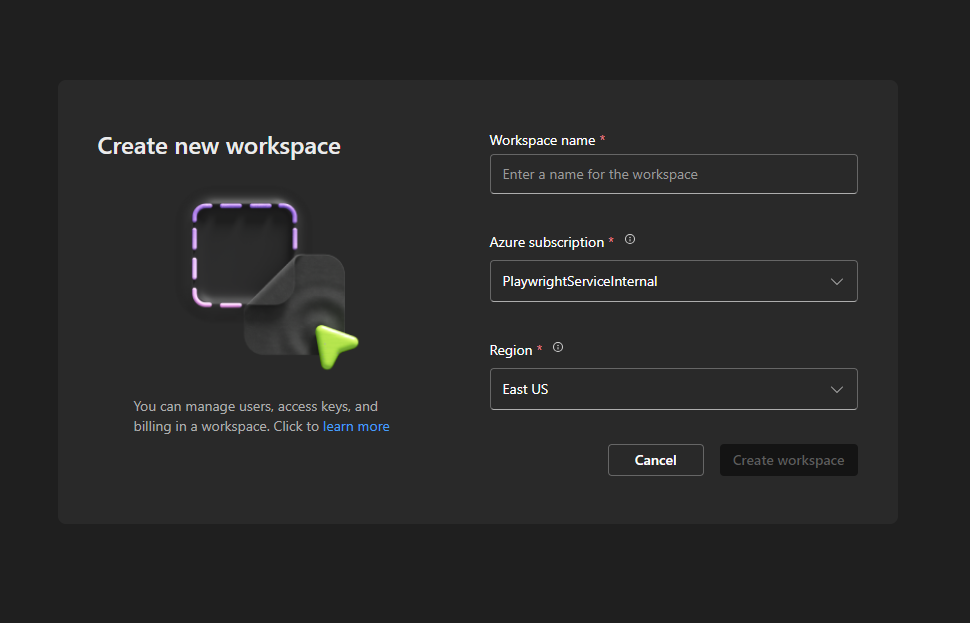
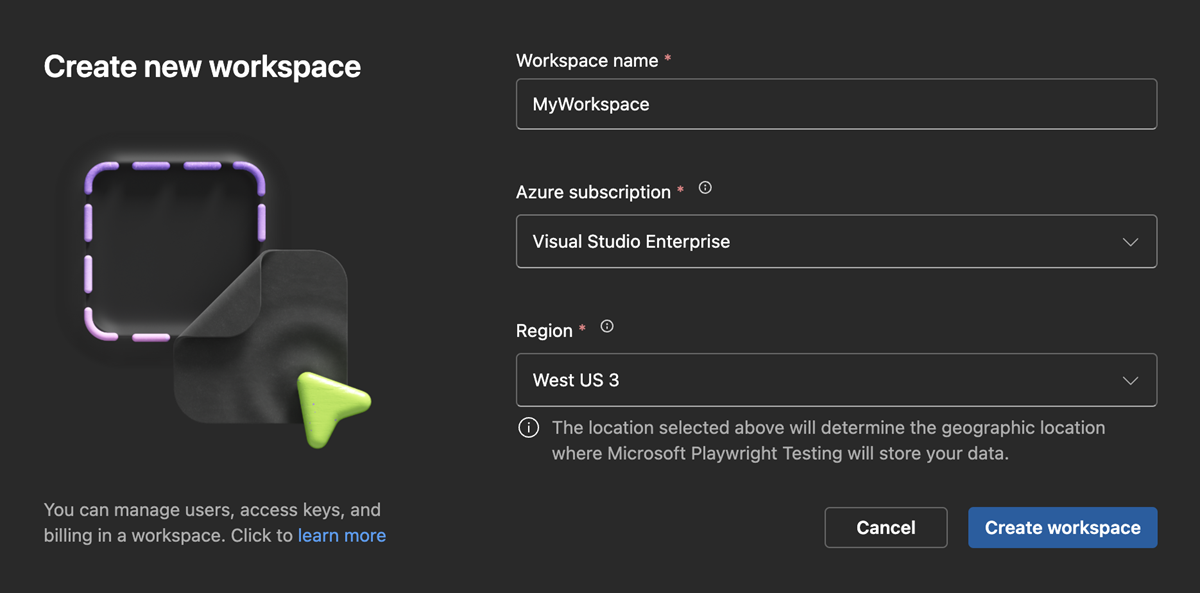
Update images and image links

diff --git a/README.md b/README.md
@@ -18,7 +18,8 @@ While we're in private preview, you'll need to temporarily follow a few one-off 
 1. Sign in to the [Playwright portal](https://aka.ms/mpt/portal) using your Azure account credentials. You may want to bookmark the website.
 
 1. Create the Workspace.
-  ![Create new workspace](https://github.com/microsoft/playwright-testing-service/assets/12104064/7ce589a1-9e77-4dd1-b0d6-d3164a4336fa)
+
+  ![Create new workspace](./docs/media/quickstart/create-new-workspace.png)
 
     |Field  |Description  |
     |---------|---------|
@@ -33,21 +34,20 @@ While we're in private preview, you'll need to temporarily follow a few one-off 
 
 1. In the [Playwright portal](https://aka.ms/mpt/portal), select **Generate key** to create the access key.
 
+    ![Generate Access key](./docs/media/quickstart/Generate-access-key.png)
+
 1. Copy the access key.
-
-![Generate Access key](https://github.com/microsoft/playwright-testing-service/assets/12104064/e9893574-527a-4a07-9b67-360c8f181d10)
-
 
 ## Obtain region endpoint
 
 > [!NOTE]
 > This is a temporary step during the private preview.
 
- 1. In the [Playwright portal](https://aka.ms/mpt/portal), copy the command under **Add region endpoint in your set up**.
+1. In the [Playwright portal](https://aka.ms/mpt/portal), copy the command under **Add region endpoint in your set up**.
 
-The endpoint URL corresponds to the workspace region. You might see a different endpoint URL in the Playwright portal, depending on the region you selected when creating the workspace. 
+    ![Set workspace endpoint](./docs/media/quickstart/set-workspace-endpoint.png)
 
- ![Set workspace endpoint](https://github.com/microsoft/playwright-testing-service/assets/12104064/8f387beb-80dc-42e8-88cf-6d65584be50e)
+    The endpoint URL corresponds to the workspace region. You might see a different endpoint URL in the Playwright portal, depending on the region you selected when creating the workspace.
 
 ## Set up environment
 
@@ -124,6 +124,7 @@ npx playwright test --config=playwright.service.config.ts --workers=20
 ```
 
 # Next Steps
+
 - Experiment with different levels of parallelism. Learn more about how [parallelism](./docs/concept-understanding-parallelism.md) works with Playwright.
 
 - Run tests in a [CI/CD pipeline.](./docs/configure-tests-with-ci-cd-pipeline.md)

diff --git a/docs/quickstart.md b/docs/quickstart.md
@@ -21,7 +21,7 @@ While we're in private preview, you'll need to follow a few one-off steps in thi
 
 1. Create the Workspace.
 
-    ![Create new workspace](https://github.com/microsoft/playwright-testing-service/assets/12104064/7ce589a1-9e77-4dd1-b0d6-d3164a4336fa)
+    ![Create new workspace](./media/quickstart/create-new-workspace.png)
 
     |Field  |Description  |
     |---------|---------|
@@ -36,10 +36,9 @@ While we're in private preview, you'll need to follow a few one-off steps in thi
 
 1. In the [Playwright portal](https://aka.ms/mpt/portal), select **Generate key** to create the access key.
 
+    ![Generate Access key](./media/quickstart/Generate-access-key.png)
+
 1. Copy the access key.
-
-    ![Generate Access key](https://github.com/microsoft/playwright-testing-service/assets/12104064/e9893574-527a-4a07-9b67-360c8f181d10)
-
 
 ## Obtain region endpoint
 
@@ -48,7 +47,7 @@ While we're in private preview, you'll need to follow a few one-off steps in thi
 
 1. In the [Playwright portal](https://aka.ms/mpt/portal), copy the command under **Add region endpoint in your set up** and run in your terminal.
 
-    ![Set workspace endpoint](https://github.com/microsoft/playwright-testing-service/assets/12104064/8f387beb-80dc-42e8-88cf-6d65584be50e)
+    ![Set workspace endpoint](./media/quickstart/set-workspace-endpoint.png)
 
     > [!NOTE]
     > The endpoint URL corresponds to the workspace region. You might see a different endpoint URL in the Playwright portal, depending on the region you selected when creating the workspace. 
